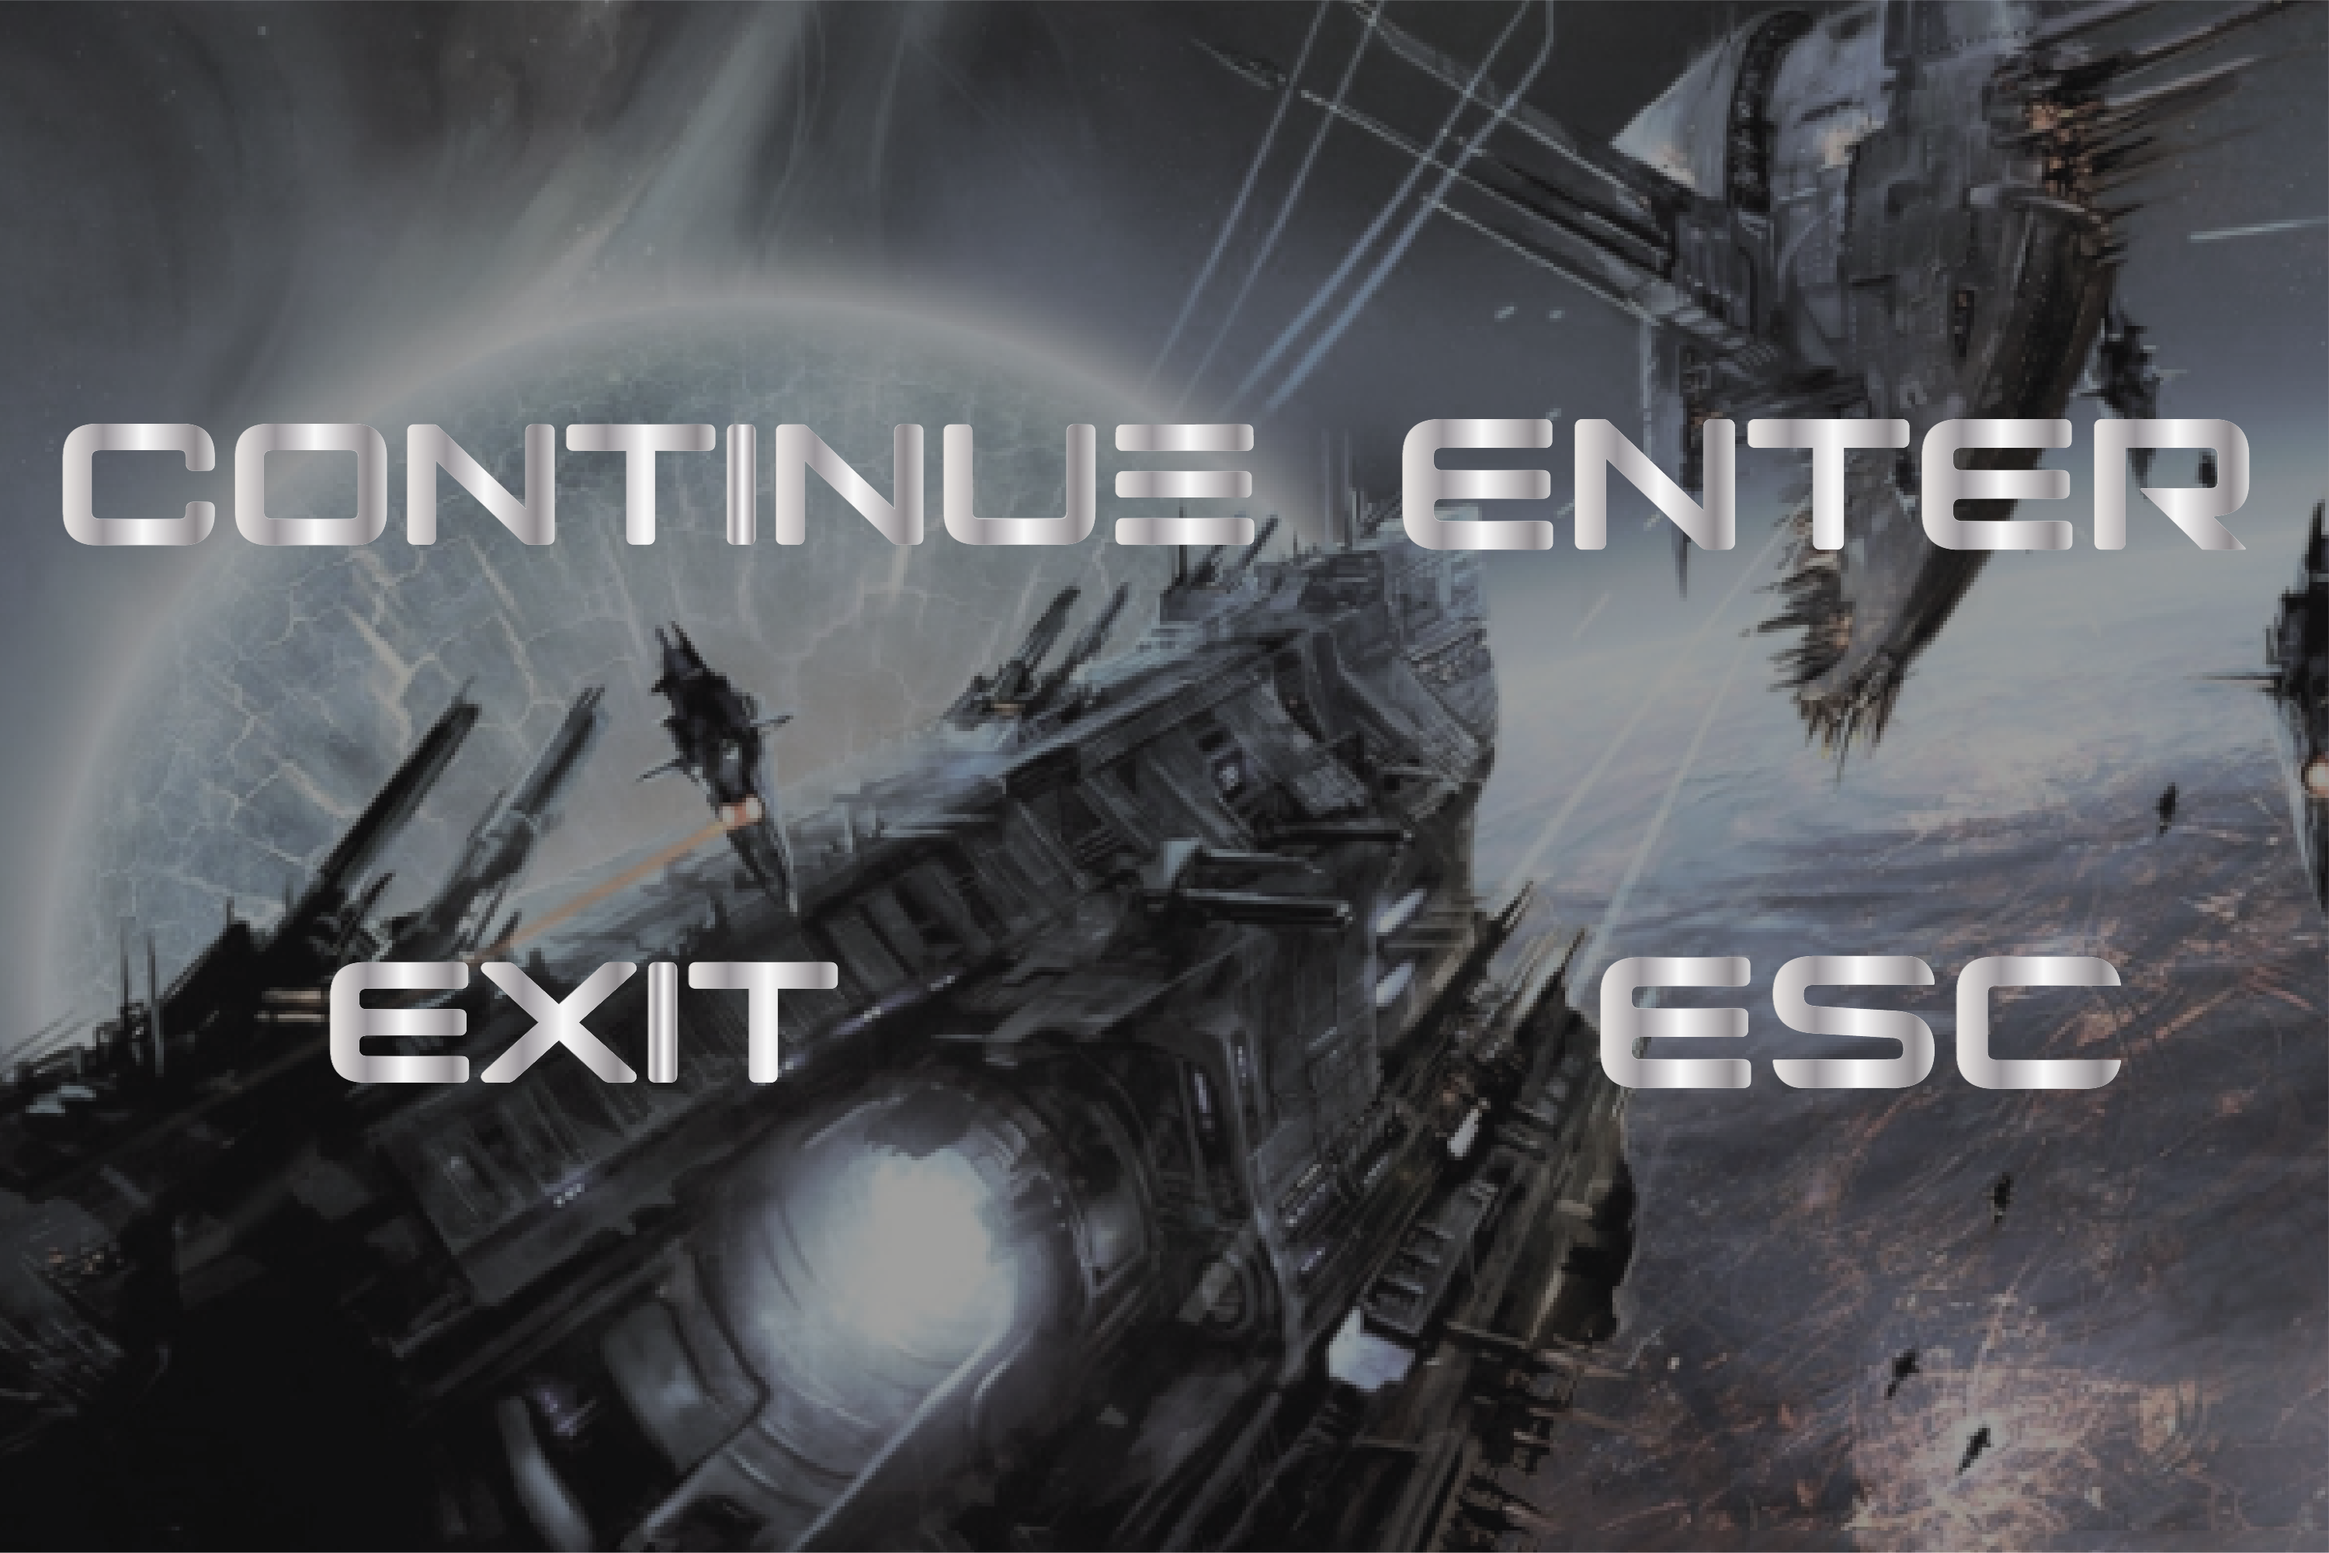
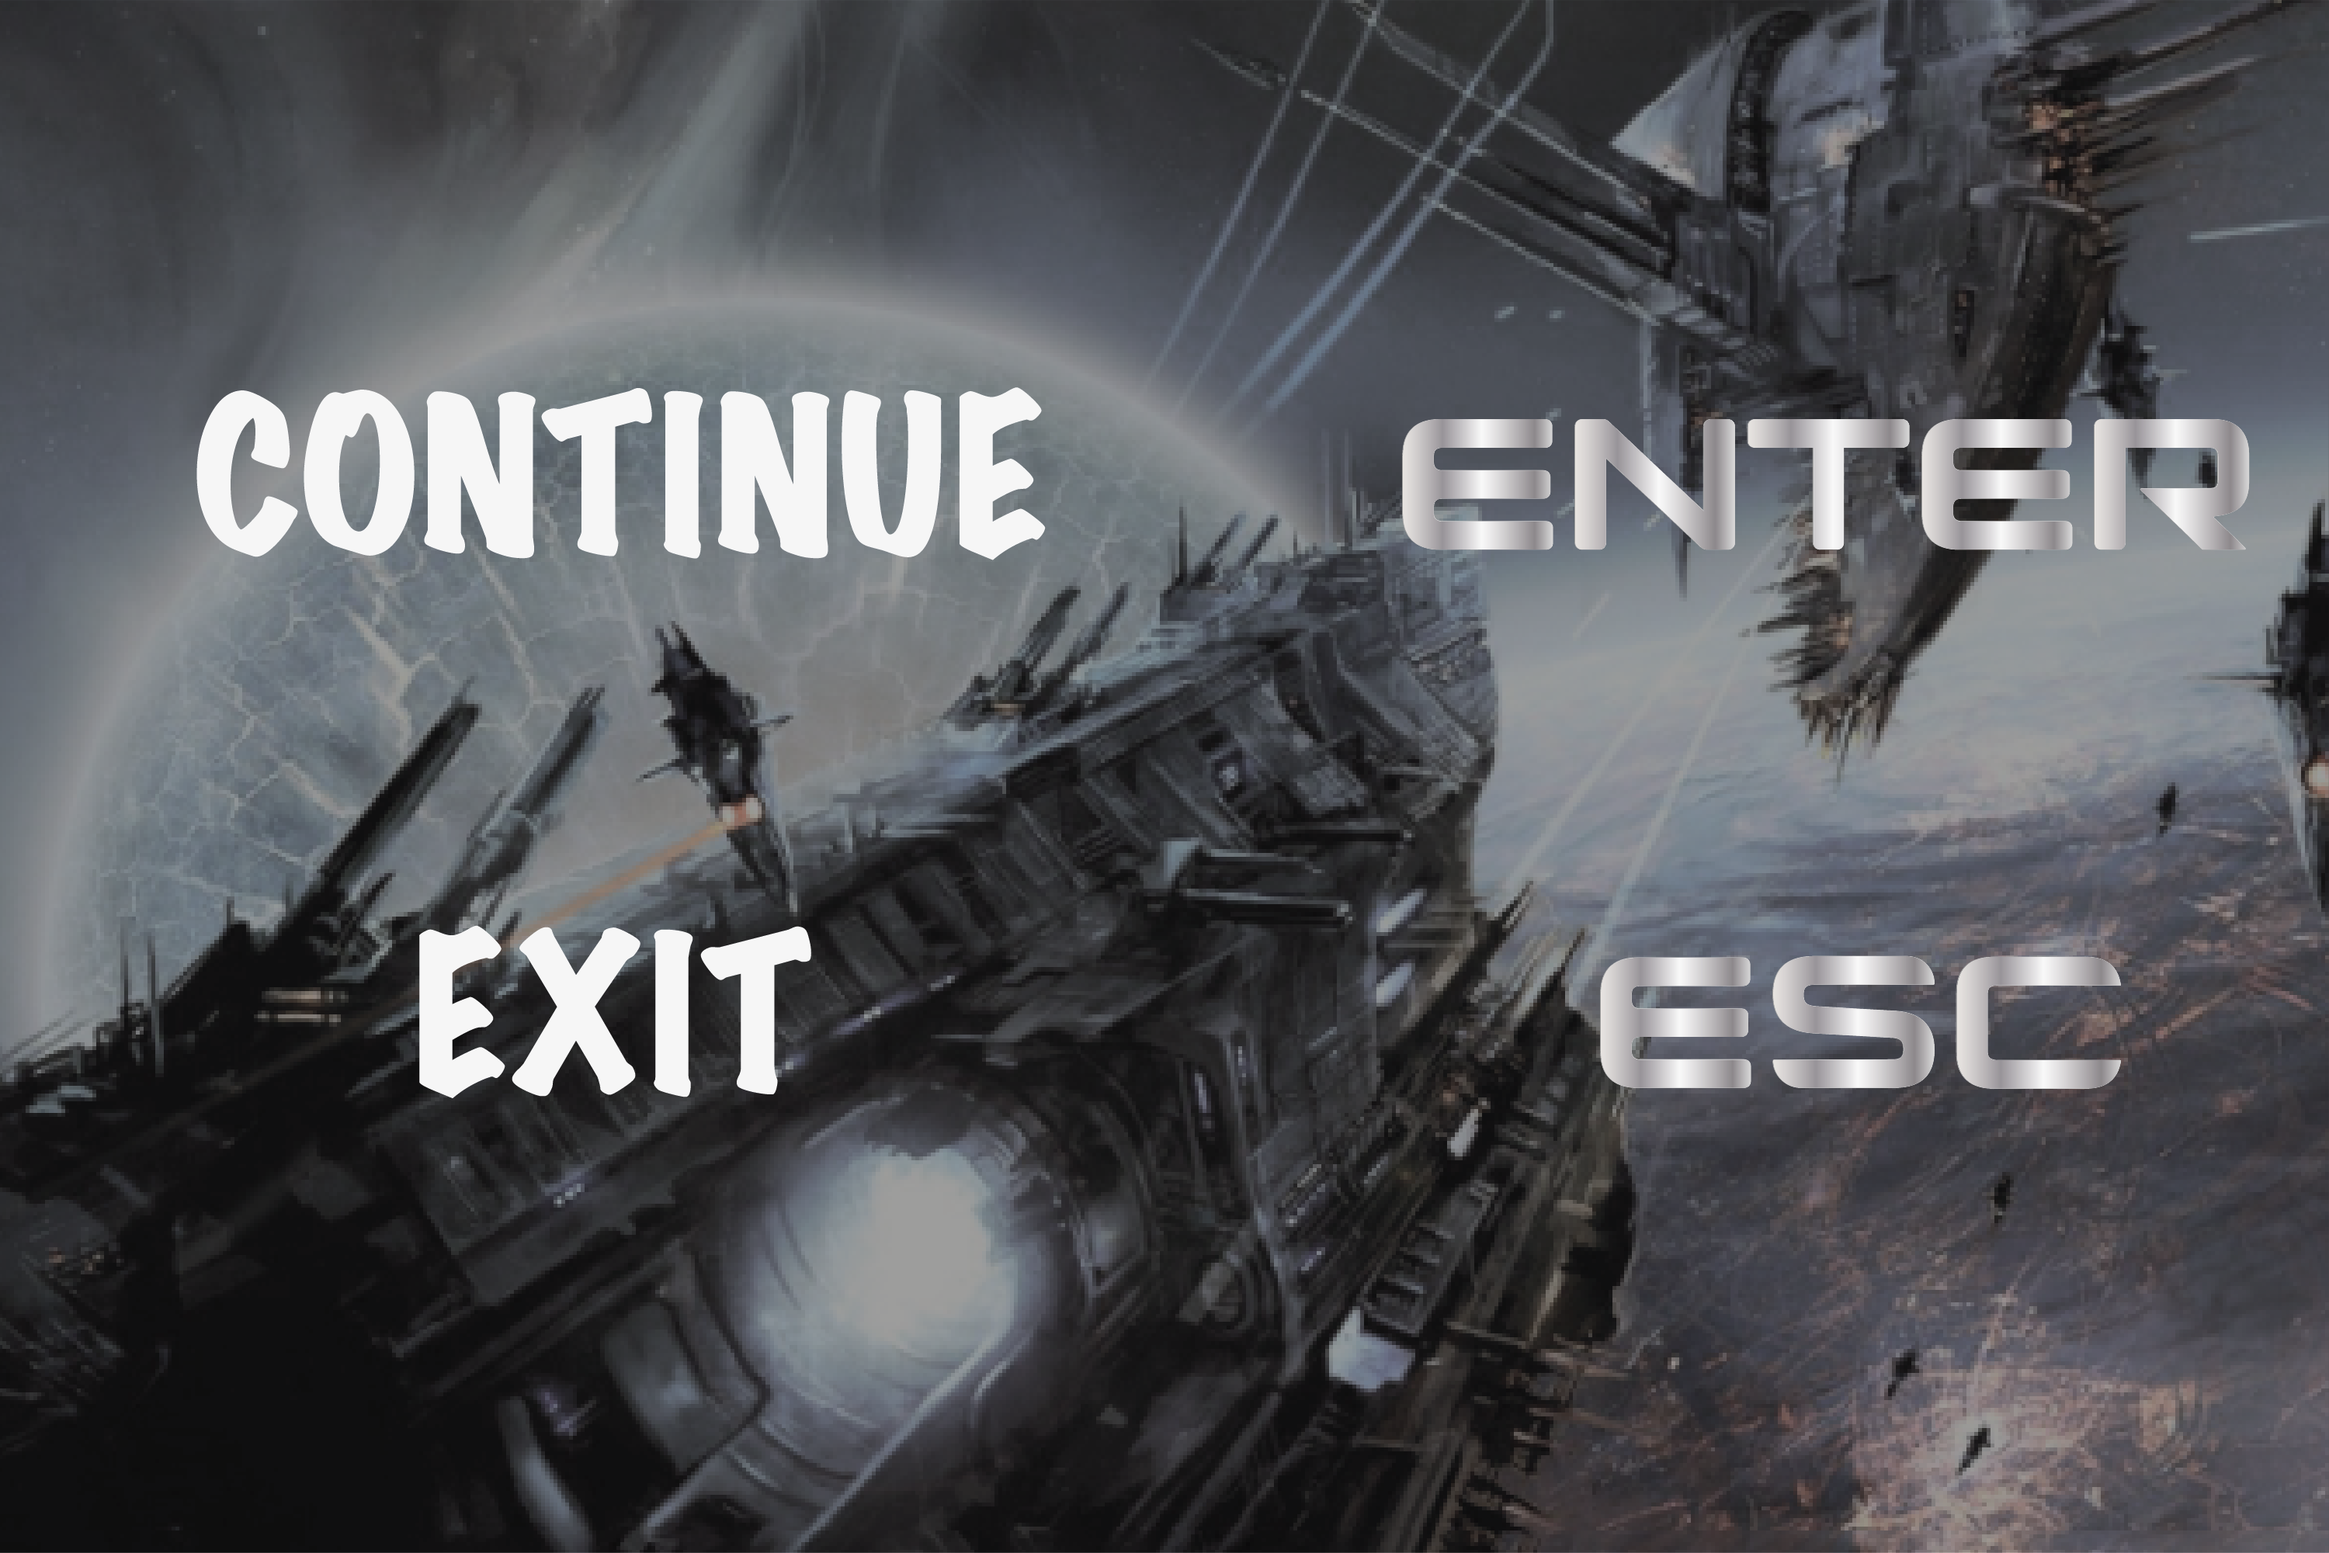
update ui

Changed region(s): [[0.0, 0.2479, 0.558, 0.3718], [0.124, 0.5887, 0.372, 0.7126]]

diff --git a/CS3343Group23/src/game/Plane.java b/CS3343Group23/src/game/Plane.java
@@ -85,7 +85,7 @@ public class Plane {
 				g.drawImage(ui.getStartImg(), 0, 0, 600, 700, null);
 				return;
 			}
-			g.drawImage(ui.getContinueImg(), 150,250, 300, 200, null);
+			g.drawImage(ui.getContinueImg(), 150,250, 350, 200, null);
 		}
 
 
